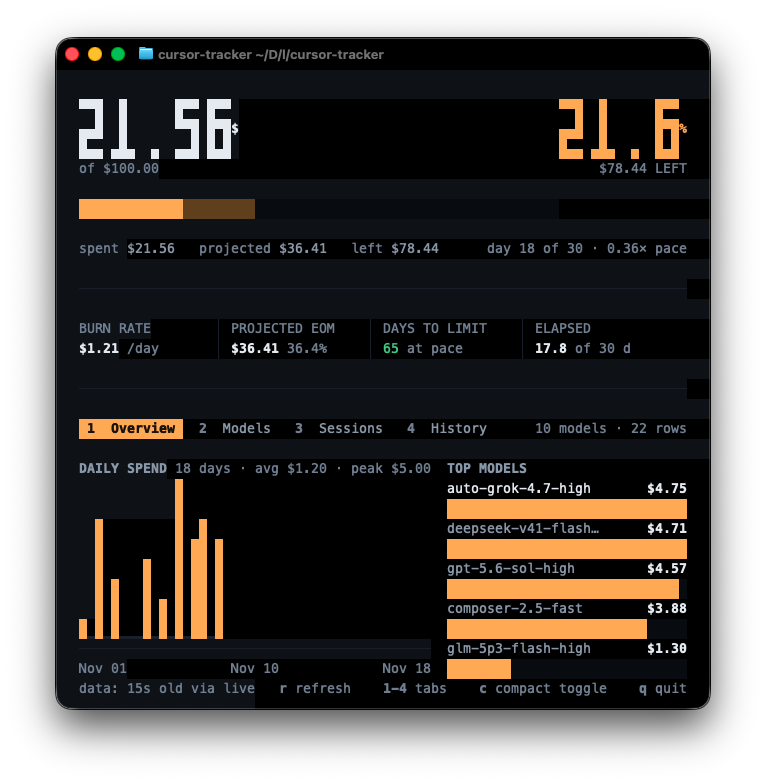
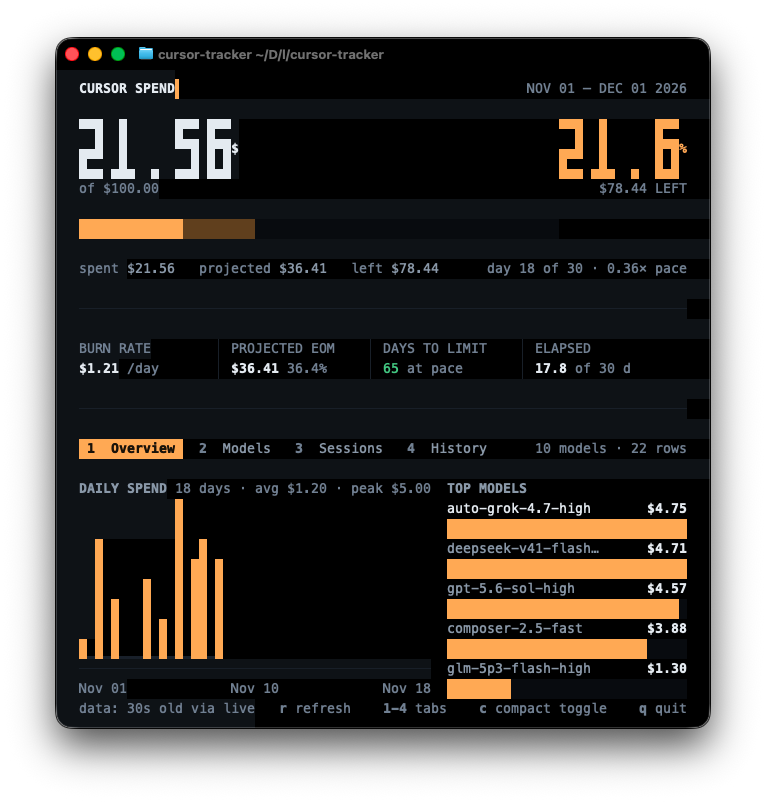
docs: stack previews top-down in a single-column table

diff --git a/README.md b/README.md
@@ -7,10 +7,12 @@ workflow, so it works without the Cursor desktop app running.
 
 ## Preview
 
-| Mode | Screenshot |
-|---|---|
-| **Compact** (default) — hero, budget bar, pace | <img src="docs/screenshots/compact-mode.png" width="560" alt="cursor-tracker compact mode"> |
-| **Full** — `c` adds metrics, tabs, daily chart, top models | <img src="docs/screenshots/full-mode.png" width="560" alt="cursor-tracker full mode"> |
+| Preview |
+|:--|
+| **Compact** — the default glance: hero, budget bar, legend, pace |
+| <img src="docs/screenshots/compact-mode.png" width="620" alt="cursor-tracker compact mode"> |
+| **Full** — press `c` to add metrics, tabs, daily spend chart, and top models |
+| <img src="docs/screenshots/full-mode.png" width="620" alt="cursor-tracker full mode"> |
 
 The budget bar is segmented: `█` spent, `▓` projected month-end, `░` untouched.
 It turns solid red once you pass the limit, and the pace readout turns red when
